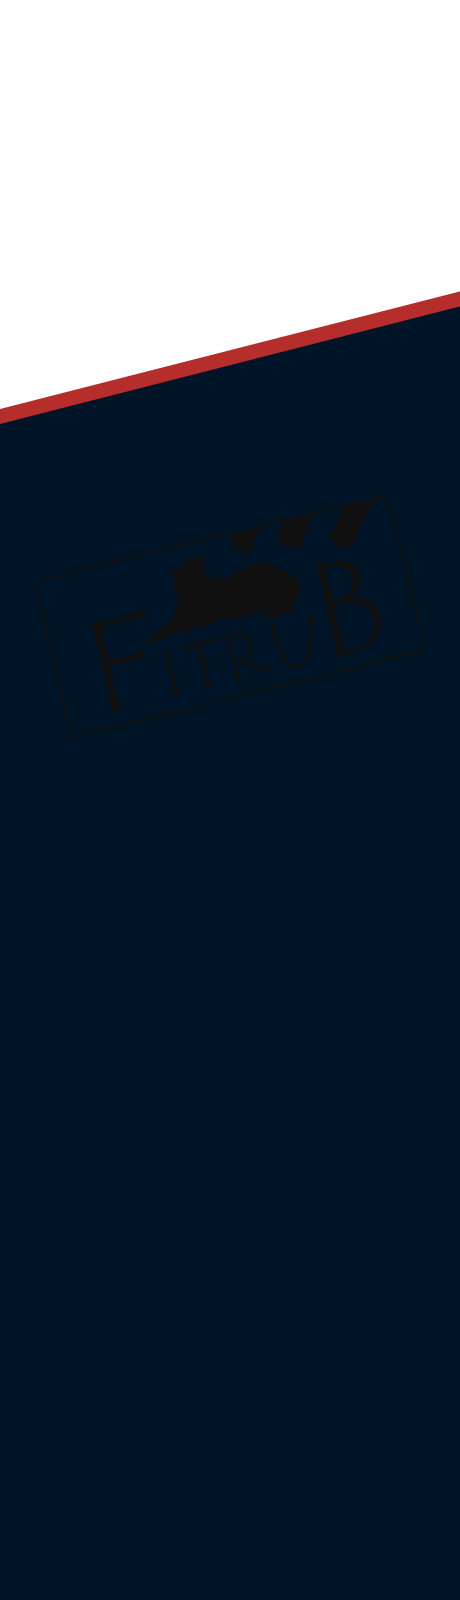
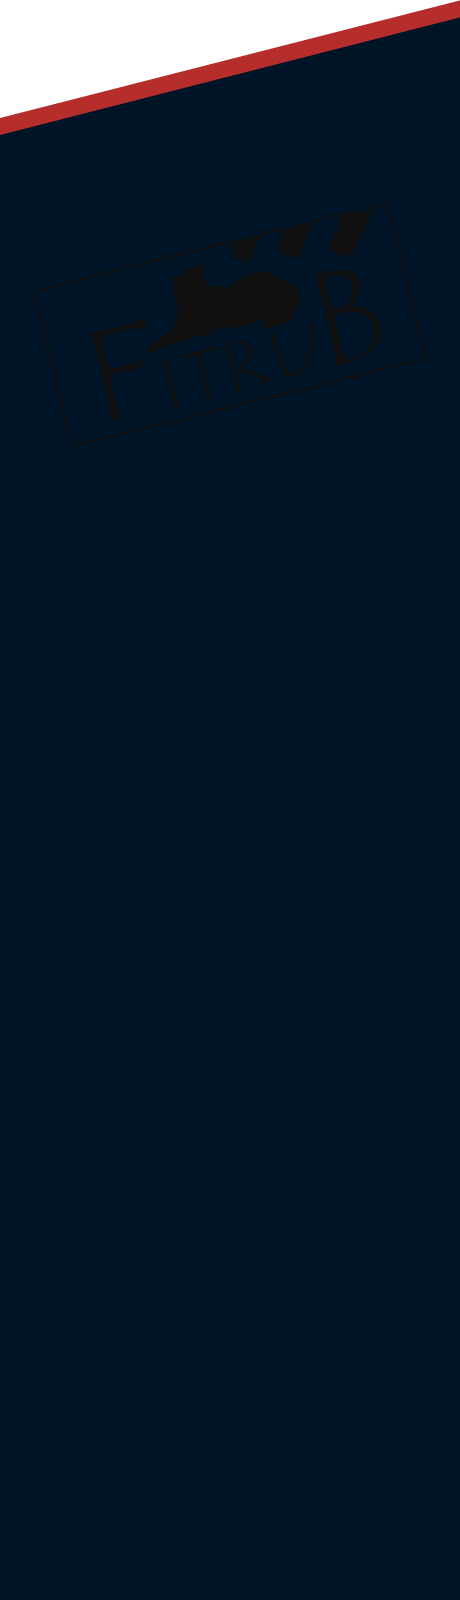
Add adaptive

Changed region(s): [[0.0, 0.0, 1.0, 0.2812]]

diff --git a/css/styles.css b/css/styles.css
@@ -40,14 +40,6 @@ img {
 
 /* ==================== General classes ==================== */
 
-.section#features {
-  /* overflow: hidden; */
-  /* background-image: url(../images/bg-top-460x1600.png), url(../images/logo5\ 2.png); */
-  /* background-position: bottom -50px center; */
-  /* background-repeat: no-repeat; */
-
-}
-
 .body-container {
   min-width: 320px;
   width: 100vw;
@@ -57,7 +49,7 @@ img {
 
   background-color: #ffffff;
   background-image: url(../images/bg-top-460x1600.png), url(../images/bg-bottom-460x1600.png);
-  background-position: top -880px center, bottom -780px center;
+  background-position: top -885px center, bottom -1055px center;
   background-repeat: no-repeat;
 }
 
@@ -66,6 +58,7 @@ img {
     min-width: 460px;
     width: 100vw;
     background-image: url(../images/bg-top-768x1600.png), url(../images/bg-bottom-768x1600.png);
+    background-position: top -780px center, bottom -970px center;
   }
 }
 
@@ -110,11 +103,30 @@ img {
 /* width: 1210px; */
 /* padding: 0 15px; */
 
+.slim {
+  padding-left: 20px;
+  padding-right: 20px;
+}
+
+@media (min-width: 460px) {
+  .slim {
+    padding-left: 30px;
+    padding-right: 30px;
+  }
+}
+
 .title {
   display: inline-block;
   font-weight: 800;
-  font-size: 28px;
-  line-height: 34px;
+  font-size: 30px;
+  line-height: 36px;
+}
+
+@media (min-width: 460px) {
+  .title {
+    font-size: 32px;
+    line-height: 39px;
+  }
 }
 
 /* @media (min-width: 1600px) {
@@ -128,9 +140,15 @@ img {
 .title::after {
   content: '';
   display: block;
-  width: 85px;
+  width: 90px;
   height: 5px;
   background-color: #b62e2c;
+}
+
+@media (min-width: 460px) {
+  .title::after {
+    width: 97px;
+  }
 }
 
 /* @media (min-width: 1600px) {
@@ -165,6 +183,7 @@ img {
 .header#navigation {
   position: fixed;
   z-index: 10;
+  min-width: 320px;
   width: inherit;
   background-color: #001427;
   opacity: 0.9;
@@ -252,14 +271,9 @@ img {
 } */
 
 .features-wrapper {
-  padding: 25px 20px;
+  padding-top: 25px;
+  padding-bottom: 25px;
   text-align: center;
-}
-
-@media (min-width: 460px) {
-  .features-wrapper {
-    padding: 25px 30px;
-  }
 }
 
 /* @media (min-width: 1600px) {
@@ -311,6 +325,14 @@ img {
   line-height: 30px;
   text-align: center;
   border-radius: 28px;
+}
+
+@media (min-width: 460px) {
+  .features-button {
+    font-weight: 800;
+    font-size: 30px;
+    line-height: 36px;
+  }
 }
 
 @media (min-width: 460px) {
@@ -379,15 +401,8 @@ img {
 } */
 
 .products-list {
-  padding: 0 20px 28px 20px;
+  padding-bottom: 28px;
 }
-
-@media (min-width: 460px) {
-.products-list {
-  padding: 0 30px 28px 30px;
-}
-}
-
 
 /* @media (min-width: 1600px) {
   .products-list {
@@ -433,10 +448,15 @@ img {
 }
 
 .products-video {
-  width: 100%;
-  height: auto;
-  border-top: 1px solid #d3d3d3;
-  border-bottom: 1px solid #d3d3d3;
+  width: 320px;
+  height: 180px;
+}
+
+@media (min-width: 460px) {
+  .products-video {
+    width: 460px;
+    height: 258px;
+  }
 }
 
 .products-video-source {
@@ -456,7 +476,7 @@ img {
 
 .section#partners {
   padding-top: 14px;
-  padding-bottom: 18px;
+  padding-bottom: 22px;
   text-align: center;
 }
 
@@ -476,18 +496,16 @@ img {
 } */
 
 .partners-info {
+  min-height: 250px;
   margin-bottom: 30px;
-  padding: 0 20px;
   text-align: left;
 }
 
 @media (min-width: 460px) {
-.partners-info {
-  padding: 0 30px;
+  .partners-info {
+    min-height: 350px;
+  }
 }
-
-}
-
 
 .partners-title {
   margin-bottom: 13px;
@@ -517,8 +535,8 @@ img {
 
 .partners-shopcar-name {
   font-weight: 800;
-  font-size: 20px;
-  line-height: 24px;
+  font-size: 22px;
+  line-height: 27px;
 }
 
 /* @media (min-width: 1600px) {
@@ -531,8 +549,8 @@ img {
 
 .partners-shopcar-description {
   font-weight: 400;
-  font-size: 20px;
-  line-height: 24px;
+  font-size: 18px;
+  line-height: 22px;
 }
 
 /* @media (min-width: 1600px) {
@@ -546,19 +564,17 @@ img {
 .partners-map {
   margin-bottom: 120px;
   flex-shrink: 0;
-  width: 100%;
+  width: 320px;
   height: 320px;
 }
 
 @media (min-width: 460px) {
-.partners-map {
-  width: 100%;
-  height: 355px;
+  .partners-map {
+    margin-bottom: 145px;
+    width: 460px;
+    height: 460px;
+  }
 }
-
-}
-
-
 
 /* @media (min-width: 1600px) {
   .partners-map {
@@ -578,6 +594,16 @@ img {
   border-radius: 28px;
 }
 
+@media (min-width: 460px) {
+  .partners-button {
+    width: auto;
+    padding: 10px 38px;
+    font-weight: 800;
+    font-size: 30px;
+    line-height: 36px;
+  }
+}
+
 /* @media (min-width: 1600px) {
   .partners-button {
     width: auto;
@@ -592,7 +618,7 @@ img {
 /* ==================== Footer and contacts ==================== */
 
 .footer#contacts {
-  padding-top: 15px;
+  padding-top: 22px;
   padding-bottom: 12px;
   text-align: center;
   color: #ffffff;
@@ -607,7 +633,6 @@ img {
 } */
 
 .contacts-wrapper {
-  padding: 0 20px;
   margin-bottom: 25px;
   text-align: left;
 }
@@ -650,6 +675,13 @@ img {
   line-height: 30px;
 }
 
+@media (min-width: 460px) {
+  .contacts-company {
+    font-size: 29px;
+    line-height: 35px;
+  }
+}
+
 /* @media (min-width: 1600px) {
   .contacts-company {
     margin-bottom: 19px;
@@ -664,6 +696,13 @@ img {
   font-weight: 400;
   font-size: 15px;
   line-height: 18px;
+}
+
+@media (min-width: 460px) {
+  .contacts-address {
+    font-size: 18px;
+    line-height: 22px;
+  }
 }
 
 /* @media (min-width: 1600px) {

diff --git a/index.html b/index.html
@@ -66,7 +66,7 @@
       <main>
         <section class="section" id="features">
           <div class="content-container features-container">
-            <div class="features-wrapper">
+            <div class="features-wrapper slim">
               <h1 class="features-title">FITRUB - це гумові кріплення</h1>
               <p class="features-description">для легкого та швидкого монтажу, розбирання овальних та подібних до них предметів</p>
               <a class="button features-button" href="https://direct24.com.ua/">Стати партнером</a>
@@ -96,7 +96,7 @@
         <section class="section" id="products">
           <div class="content-container">
             <h2 class="title products-title">ПРОДУКЦІЯ</h2>
-            <ul class="products-list">
+            <ul class="products-list slim">
               <li class="products-item">
                 <a class="products-link" href="" data-modal-open>
                   <img class="products-image" src="./images/product-card-1.jpg" width="380" height="318" alt="Кріплення тип 1" data-slide="1" />
@@ -137,7 +137,7 @@
         <section class="section" id="partners">
           <div class="content-container">
             <div class="partners-wrapper">
-              <div class="partners-info">
+              <div class="partners-info slim">
                 <h2 class="title partners-title">НАШІ ПАРТНЕРИ</h2>
                 <ul class="partners-list">
                   <li class="partners-item">
@@ -169,7 +169,7 @@
 
       <footer class="footer" id="contacts">
         <div class="content-container">
-          <div class="contacts-wrapper">
+          <div class="contacts-wrapper slim">
             <div class="contacts-info">
               <h2 class="title contacts-title">КОНТАКТИ</h2>
               <h3 class="contacts-company">FITRUB</h3>

diff --git a/css/template.css b/css/template.css
@@ -1,3 +1,4 @@
 @media (min-width: 460px) {
 
 }
+
